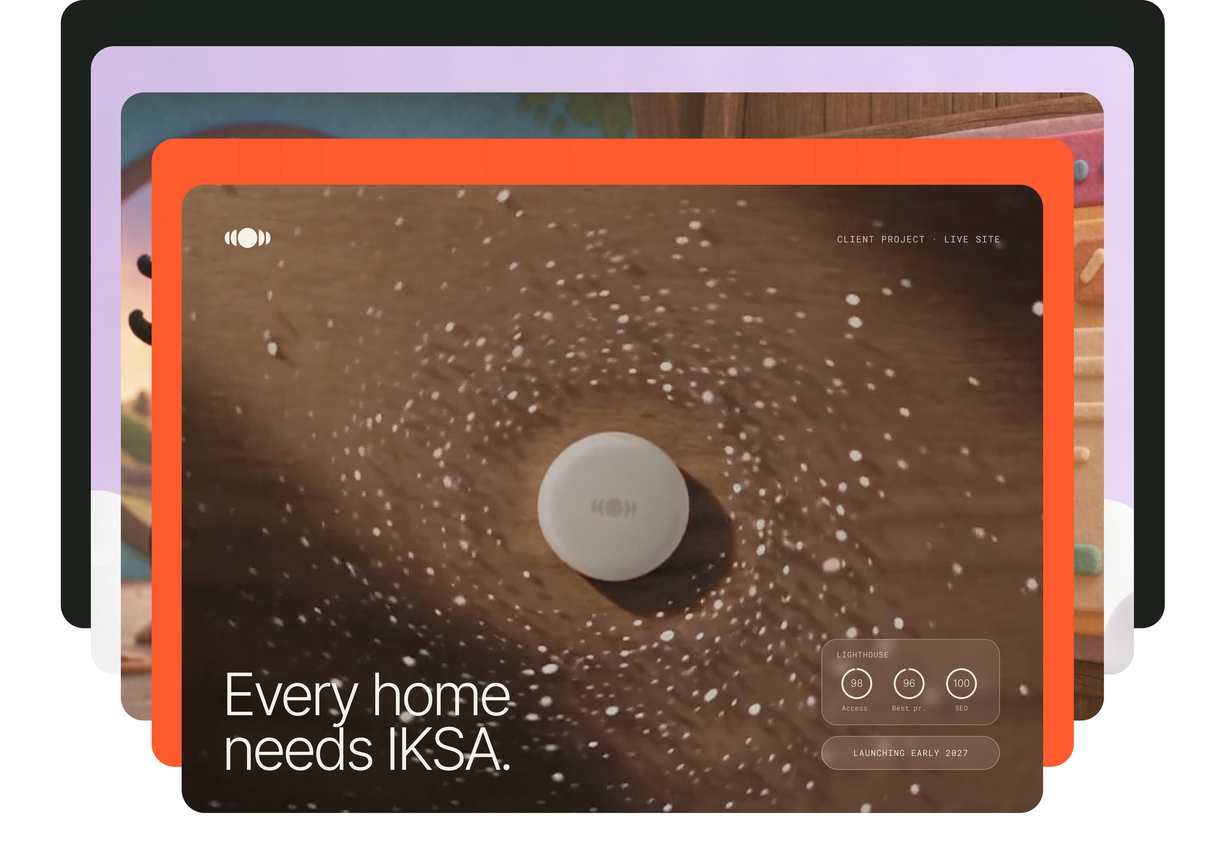
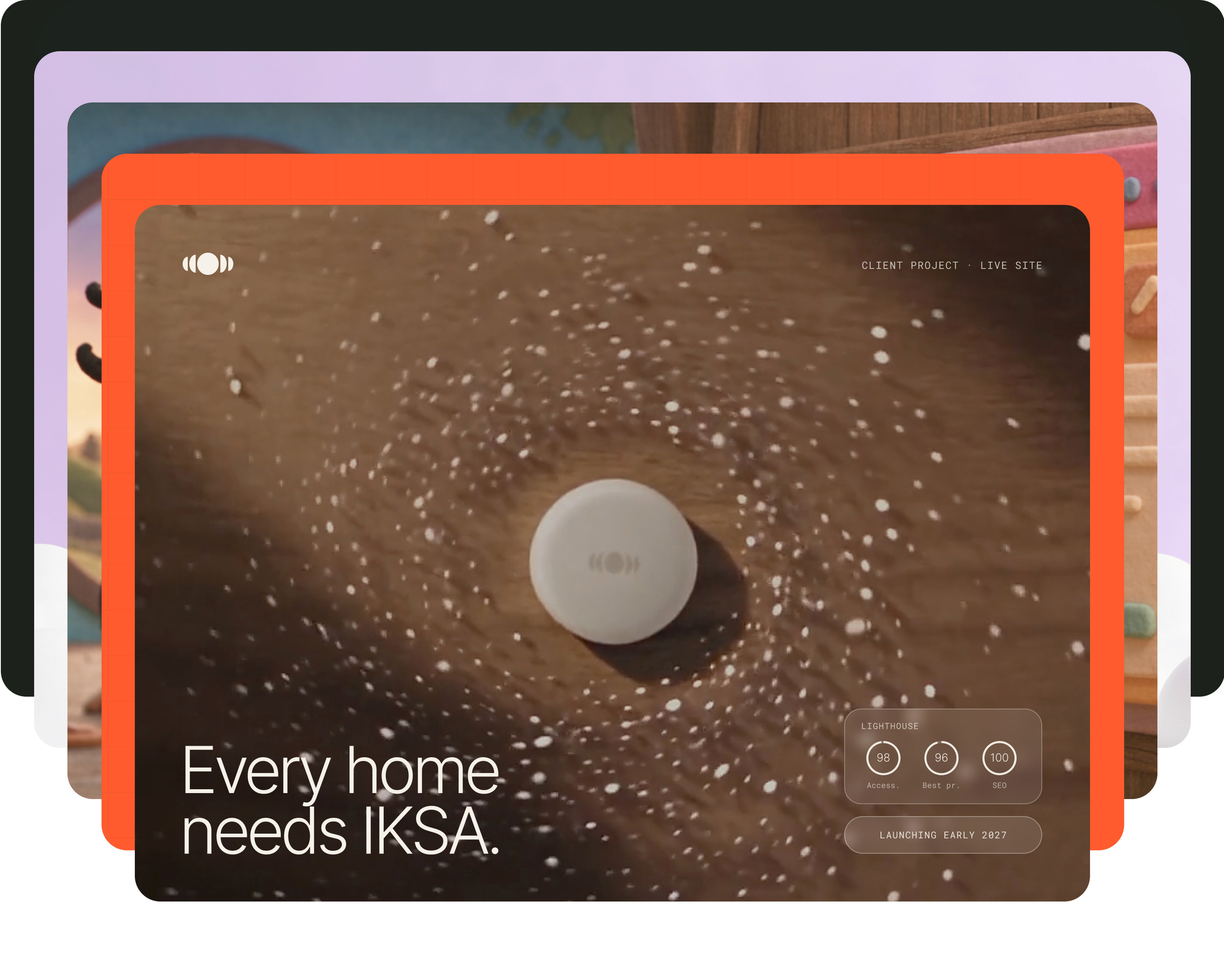
Featured card max width, sound control in nav, image edge trim, next-project hover colours
Claude-Session: https://claude.ai/code/session_01LdqoC1SF6YCFJvmDK3wVzD

diff --git a/squarespace/pages/01-home.html b/squarespace/pages/01-home.html
@@ -19,7 +19,7 @@
 </section>
 <section id="s-25-566" class="sec" aria-label="Intro"><div class="f" style="display:flex;flex-direction:row;flex-wrap:wrap;padding:calc(128px*var(--k)) var(--gut) calc(64px*var(--k)) var(--gut);justify-content:space-between;align-items:flex-start;align-self:stretch"><div class="f" style="display:flex;flex-direction:column;gap:16px;align-items:flex-start;flex:0 1 380px;min-width:min(100%,220px);max-width:100%"><p class="t" style="font-weight:700;font-family:var(--sans);font-size:11px;line-height:1.45;letter-spacing:0.08em;color:var(--text);text-transform:uppercase;max-width:100%">PRODUCT DESIGNER · 5 YEARS IN DESIGN</p><h2 class="t" style="font-weight:300;font-family:var(--sans);font-size:clamp(23px,1.89vw,30px);line-height:1.05;letter-spacing:-0.03em;color:var(--text);width:380px;max-width:100%">Designing and building for the web, from the first user interview to the last line of CSS.</h2><div class="sp" aria-hidden="true" style="flex:0 0 auto;height:calc(40px*var(--k))"></div><a class="pill" href="/about">FIND OUT MORE</a></div><p class="t" style="font-weight:300;font-family:var(--sans);font-size:16px;line-height:1.5;color:var(--text);flex:0 1 360px;min-width:min(100%,240px);max-width:100%">Fluent in both Figma and front-end code, so designs arrive with their states, spacing and accessibility already worked out. Research, usability testing and a shared design system keep every decision grounded.</p></div></section>
 <section id="s-388-13758" class="sec" aria-label="Stats (sentence)"><div class="f" style="display:flex;flex-direction:column;gap:20px;padding:calc(40px*var(--k)) var(--gut) calc(140px*var(--k)) var(--gut);align-items:flex-start;background:var(--bg);align-self:stretch"><p class="t" style="font-weight:400;font-family:'Roboto Mono',ui-monospace,monospace;font-size:11px;line-height:1.45;letter-spacing:0.1em;color:var(--muted);max-width:100%">IN NUMBERS</p><div class="f" style="gap:24px 24px;align-self:stretch;display:grid;grid-template-columns:repeat(auto-fit,minmax(min(100%,300px),1fr))"><a class="f blk" href="/equerry-co" style="display:flex;flex-direction:column;gap:20px;padding:calc(48px*var(--k)) calc(48px*var(--kx)) calc(48px*var(--k)) calc(48px*var(--kx));align-items:flex-start;background:var(--surface);border-radius:30px;align-self:stretch;flex:461 1 0px;min-width:min(100%,300px);height:100%"><p class="t" style="font-weight:500;font-family:'Geist Mono',ui-monospace,monospace;font-size:12px;line-height:1.45;letter-spacing:0.06em;color:var(--muted);max-width:100%">EQUERRY CO  ·  DESIGN SYSTEM</p><h2 class="t" style="font-weight:400;font-style:italic;font-family:var(--serif);font-size:clamp(59px,13.84vw,220px);line-height:1;letter-spacing:-0.02em;color:var(--accent);overflow-wrap:normal;max-width:100%"><em>30%</em></h2><h3 class="t" style="font-weight:300;font-family:var(--sans);font-size:clamp(20px,1.64vw,26px);line-height:1.3;letter-spacing:-0.01em;color:var(--text);align-self:stretch">Faster from approved design to live site, with the design system I built.</h3><p class="t" style="font-weight:400;font-family:var(--sans);font-size:15px;line-height:1.45;color:var(--accent);max-width:100%">Equerry Co case study  →</p></a><a class="f blk" href="/iksa" style="display:flex;flex-direction:column;gap:20px;padding:calc(48px*var(--k)) calc(48px*var(--kx)) calc(48px*var(--k)) calc(48px*var(--kx));align-items:flex-start;background:var(--surface);border-radius:30px;align-self:stretch;flex:461 1 0px;min-width:min(100%,300px);height:100%"><p class="t" style="font-weight:500;font-family:'Geist Mono',ui-monospace,monospace;font-size:12px;line-height:1.45;letter-spacing:0.06em;color:var(--muted);max-width:100%">IKSA  ·  CLIENT PROJECT</p><h2 class="t" style="font-weight:400;font-style:italic;font-family:var(--serif);font-size:clamp(59px,13.84vw,220px);line-height:1;letter-spacing:-0.02em;color:var(--accent);overflow-wrap:normal;max-width:100%"><em>98</em></h2><h3 class="t" style="font-weight:300;font-family:var(--sans);font-size:clamp(20px,1.64vw,26px);line-height:1.3;letter-spacing:-0.01em;color:var(--text);align-self:stretch">Lighthouse accessibility score on IKSA’s live site, which I designed and built.</h3><p class="t" style="font-weight:400;font-family:var(--sans);font-size:15px;line-height:1.45;color:var(--accent);max-width:100%">IKSA case study  →</p></a><a class="f blk" href="/about" style="display:flex;flex-direction:column;gap:20px;padding:calc(48px*var(--k)) calc(48px*var(--kx)) calc(48px*var(--k)) calc(48px*var(--kx));align-items:flex-start;background:var(--surface);border-radius:30px;align-self:stretch;flex:461 1 0px;min-width:min(100%,300px);height:100%"><p class="t" style="font-weight:500;font-family:'Geist Mono',ui-monospace,monospace;font-size:12px;line-height:1.45;letter-spacing:0.06em;color:var(--muted);max-width:100%">FREELANCE  ·  CLIENT WORK</p><h2 class="t" style="font-weight:400;font-style:italic;font-family:var(--serif);font-size:clamp(59px,13.84vw,220px);line-height:1;letter-spacing:-0.02em;color:var(--accent);overflow-wrap:normal;max-width:100%"><em>5</em></h2><h3 class="t" style="font-weight:300;font-family:var(--sans);font-size:clamp(20px,1.64vw,26px);line-height:1.3;letter-spacing:-0.01em;color:var(--text);align-self:stretch">Client projects I designed end to end as a freelancer.</h3><div class="sp" aria-hidden="true" style="flex:0 0 auto;height:calc(34px*var(--k))"></div><p class="t" style="font-weight:400;font-family:var(--sans);font-size:15px;line-height:1.45;color:var(--accent);max-width:100%">My experience  →</p></a></div></div></section>
-<section id="s-25-590" class="sec" aria-label="Featured: IKSA"><figure class="fig" style="width:100%;aspect-ratio:1590/1121"><img class="im only-dark" src="https://cdn.jsdelivr.net/gh/PDodia23/portfolio@main/images/home-01.jpg" alt="Pooja Dodia: Featured: IKSA" width="1590" height="1121" loading="lazy" decoding="async"><img class="im only-light" src="https://cdn.jsdelivr.net/gh/PDodia23/portfolio@main/images/home-01-light.jpg" alt="Pooja Dodia: Featured: IKSA" width="1590" height="1121" loading="lazy" decoding="async"></figure></section>
+<section id="s-25-590" class="sec" aria-label="Featured: IKSA"><div class="f" style="display:flex;flex-direction:column;padding:0px var(--gut) 0px var(--gut);align-items:flex-start;align-self:stretch"><figure class="fig" style="width:1434px;max-width:100%;aspect-ratio:1434/1121"><img class="im only-dark" src="https://cdn.jsdelivr.net/gh/PDodia23/portfolio@main/images/home-01.jpg" alt="Pooja Dodia: Featured: IKSA" width="1434" height="1121" loading="lazy" decoding="async"><img class="im only-light" src="https://cdn.jsdelivr.net/gh/PDodia23/portfolio@main/images/home-01-light.jpg" alt="Pooja Dodia: Featured: IKSA" width="1434" height="1121" loading="lazy" decoding="async"></figure></div></section>
 <section id="s-25-731" class="sec" aria-label="Case studies"><div class="f" style="display:flex;flex-direction:row;flex-wrap:wrap;padding:calc(160px*var(--k)) var(--gut) calc(160px*var(--k)) var(--gut);align-items:flex-start;align-self:stretch"><div class="f" style="display:flex;flex-direction:column;gap:16px;align-items:flex-start;flex:0 1 580px;min-width:min(100%,240px);max-width:100%"><p class="t" style="font-weight:700;font-family:var(--sans);font-size:11px;line-height:1.45;letter-spacing:0.08em;color:var(--text);text-transform:uppercase;max-width:100%">CASE STUDIES</p><h2 class="t" style="font-weight:300;font-family:var(--sans);font-size:clamp(23px,1.89vw,30px);line-height:1.05;letter-spacing:-0.03em;color:var(--text);width:380px;max-width:100%">Explore my<br><em>work.</em></h2></div><div class="f" style="display:flex;flex-direction:column;align-items:flex-start;flex:850 1 0px;min-width:min(100%,300px)"><a class="f blk caserow caserow--iksa" href="/iksa" style="display:flex;flex-direction:column;gap:24px;padding:calc(32px*var(--k)) 0px calc(48px*var(--k)) 0px;align-items:flex-start;align-self:stretch"><p class="t" style="font-weight:700;font-family:var(--sans);font-size:11px;line-height:1.45;letter-spacing:0.08em;color:var(--muted);text-transform:uppercase;max-width:100%">LIVE SITE  ·  BRAND &amp; LANDING PAGE</p><h2 class="t adapt" style="font-weight:300;font-family:var(--sans);font-size:clamp(54px,12.58vw,200px);line-height:0.77;letter-spacing:-0.07em;--lc:#404040;color:#5d5d5d;overflow-wrap:normal;align-self:stretch">IKSA</h2><span class="caserow__pv" aria-hidden="true"><img src="https://cdn.jsdelivr.net/gh/PDodia23/portfolio@main/images/pv-iksa.jpg" alt="" width="806" height="488" loading="lazy" decoding="async"></span></a><a class="f blk caserow caserow--equerry-co" href="/equerry-co" style="display:flex;flex-direction:column;gap:24px;padding:calc(32px*var(--k)) 0px calc(48px*var(--k)) 0px;align-items:flex-start;align-self:stretch"><p class="t" style="font-weight:700;font-family:var(--sans);font-size:11px;line-height:1.45;letter-spacing:0.08em;color:var(--muted);text-transform:uppercase;max-width:100%">SHIPPED WORK  ·  DESIGN SYSTEM</p><h2 class="t adapt" style="font-weight:300;font-family:var(--sans);font-size:clamp(54px,12.58vw,200px);line-height:0.77;letter-spacing:-0.07em;--lc:#404040;color:#5d5d5d;overflow-wrap:normal;align-self:stretch">Equerry Co</h2><span class="caserow__pv" aria-hidden="true"><img src="https://cdn.jsdelivr.net/gh/PDodia23/portfolio@main/images/pv-equerry-co.jpg" alt="" width="806" height="488" loading="lazy" decoding="async"></span></a><a class="f blk caserow caserow--portfolio-rebuild" href="/portfolio-rebuild" style="display:flex;flex-direction:column;gap:24px;padding:calc(32px*var(--k)) 0px calc(48px*var(--k)) 0px;align-items:flex-start;align-self:stretch"><p class="t" style="font-weight:700;font-family:var(--sans);font-size:11px;line-height:1.45;letter-spacing:0.08em;color:var(--muted);text-transform:uppercase;max-width:100%">REAL AUDIT  ·  ACCESSIBILITY, WCAG 2.2 AA</p><h2 class="t adapt" style="font-weight:300;font-family:var(--sans);font-size:clamp(54px,12.58vw,200px);line-height:0.77;letter-spacing:-0.07em;--lc:#404040;color:#5d5d5d;overflow-wrap:normal;align-self:stretch">Portfolio rebuild</h2><span class="caserow__pv" aria-hidden="true"><img src="https://cdn.jsdelivr.net/gh/PDodia23/portfolio@main/images/pv-portfolio-rebuild.jpg" alt="" width="806" height="488" loading="lazy" decoding="async"></span></a><a class="f blk caserow caserow--butter-and-bloom" href="/butter-and-bloom" style="display:flex;flex-direction:column;gap:24px;padding:calc(32px*var(--k)) 0px calc(48px*var(--k)) 0px;align-items:flex-start;align-self:stretch"><p class="t" style="font-weight:700;font-family:var(--sans);font-size:11px;line-height:1.45;letter-spacing:0.08em;color:var(--muted);text-transform:uppercase;max-width:100%">CONCEPT  ·  MOBILE APP, 5-PERSON USABILITY TEST</p><h2 class="t adapt" style="font-weight:300;font-family:var(--sans);font-size:clamp(54px,12.58vw,200px);line-height:0.77;letter-spacing:-0.07em;--lc:#404040;color:#5d5d5d;overflow-wrap:normal;align-self:stretch">Butter &amp; Bloom</h2><span class="caserow__pv" aria-hidden="true"><img src="https://cdn.jsdelivr.net/gh/PDodia23/portfolio@main/images/pv-butter-and-bloom.jpg" alt="" width="806" height="488" loading="lazy" decoding="async"></span></a><a class="f blk caserow caserow--dew" href="/dew" style="display:flex;flex-direction:column;gap:24px;padding:calc(32px*var(--k)) 0px calc(48px*var(--k)) 0px;align-items:flex-start;align-self:stretch"><p class="t" style="font-weight:700;font-family:var(--sans);font-size:11px;line-height:1.45;letter-spacing:0.08em;color:var(--muted);text-transform:uppercase;max-width:100%">CONCEPT  ·  EXPERIMENTATION &amp; SUBSCRIPTION UX</p><h2 class="t adapt" style="font-weight:300;font-family:var(--sans);font-size:clamp(54px,12.58vw,200px);line-height:0.77;letter-spacing:-0.07em;--lc:#404040;color:#5d5d5d;overflow-wrap:normal;align-self:stretch">Dew</h2><span class="caserow__pv" aria-hidden="true"><img src="https://cdn.jsdelivr.net/gh/PDodia23/portfolio@main/images/pv-dew.jpg" alt="" width="806" height="488" loading="lazy" decoding="async"></span></a><a class="f blk caserow caserow--margins" href="/margins" style="display:flex;flex-direction:column;gap:24px;padding:calc(32px*var(--k)) 0px calc(48px*var(--k)) 0px;align-items:flex-start;align-self:stretch"><p class="t" style="font-weight:700;font-family:var(--sans);font-size:11px;line-height:1.45;letter-spacing:0.08em;color:var(--muted);text-transform:uppercase;max-width:100%">CONCEPT  ·  SOCIAL READING APP</p><h2 class="t adapt" style="font-weight:300;font-family:var(--sans);font-size:clamp(54px,12.58vw,200px);line-height:0.77;letter-spacing:-0.07em;--lc:#404040;color:#5d5d5d;overflow-wrap:normal;align-self:stretch">Margins</h2><span class="caserow__pv" aria-hidden="true"><img src="https://cdn.jsdelivr.net/gh/PDodia23/portfolio@main/images/pv-margins.jpg" alt="" width="806" height="488" loading="lazy" decoding="async"></span></a><a class="f blk caserow caserow--concur" href="/concur" style="display:flex;flex-direction:column;gap:24px;padding:calc(32px*var(--k)) 0px calc(48px*var(--k)) 0px;align-items:flex-start;align-self:stretch"><p class="t" style="font-weight:700;font-family:var(--sans);font-size:11px;line-height:1.45;letter-spacing:0.08em;color:var(--muted);text-transform:uppercase;max-width:100%">CONCEPT  ·  B2B EXPENSES, WEB + iOS</p><h2 class="t adapt" style="font-weight:300;font-family:var(--sans);font-size:clamp(54px,12.58vw,200px);line-height:0.77;letter-spacing:-0.07em;--lc:#404040;color:#5d5d5d;overflow-wrap:normal;align-self:stretch">Concur</h2><span class="caserow__pv" aria-hidden="true"><img src="https://cdn.jsdelivr.net/gh/PDodia23/portfolio@main/images/pv-concur.jpg" alt="" width="806" height="488" loading="lazy" decoding="async"></span></a><div class="f" style="display:flex;flex-direction:row;flex-wrap:wrap;padding:24px 0px 0px 0px;align-items:flex-start;max-width:100%"><a class="pill" href="/work">VIEW ALL CASE STUDIES</a></div></div></div></section>
 <section id="s-25-765" class="sec" aria-label="Proof = pudding"><div class="f" style="display:flex;flex-direction:column;gap:16px;padding:0px var(--gut) calc(160px*var(--k)) var(--gut);align-items:flex-start;align-self:stretch"><p class="t" style="font-weight:700;font-family:var(--sans);font-size:11px;line-height:1.45;letter-spacing:0.08em;color:var(--text);text-transform:uppercase;max-width:100%">PROOF = PUDDING</p><h2 class="t" style="font-weight:300;font-family:var(--sans);font-size:clamp(23px,1.89vw,30px);line-height:1.05;letter-spacing:-0.03em;color:var(--text);width:295px;max-width:100%">Results I can show, not just pixels.</h2><div class="f" style="display:flex;flex-direction:row;flex-wrap:wrap;gap:calc(40px*var(--k)) calc(40px*var(--k));padding:calc(64px*var(--k)) 0px 0px 0px;align-items:flex-start;align-self:stretch"><div class="f" style="display:flex;flex-direction:column;gap:24px;align-items:flex-start;flex:450 1 0px;min-width:min(100%,300px)"><h2 class="t" style="font-weight:300;font-family:var(--sans);font-size:clamp(34px,5.03vw,80px);line-height:0.7;letter-spacing:-0.05em;color:var(--text);overflow-wrap:normal;max-width:100%">100</h2><p class="t" style="font-weight:300;font-family:var(--sans);font-size:18px;line-height:1.45;color:var(--text);align-self:stretch">Lighthouse accessibility score on my rebuilt portfolio, up from 94.</p></div><div class="f" style="display:flex;flex-direction:column;gap:24px;align-items:flex-start;flex:450 1 0px;min-width:min(100%,300px)"><h2 class="t" style="font-weight:300;font-family:var(--sans);font-size:clamp(34px,5.03vw,80px);line-height:0.7;letter-spacing:-0.05em;color:var(--text);overflow-wrap:normal;max-width:100%">3</h2><p class="t" style="font-weight:300;font-family:var(--sans);font-size:18px;line-height:1.45;color:var(--text);align-self:stretch">Design changes from a 5-person usability test on Butter &amp; Bloom, starting with a written VEGAN tag.</p></div><div class="f" style="display:flex;flex-direction:column;gap:24px;align-items:flex-start;flex:450 1 0px;min-width:min(100%,300px)"><h2 class="t" style="font-weight:300;font-family:var(--sans);font-size:clamp(34px,5.03vw,80px);line-height:0.7;letter-spacing:-0.05em;color:var(--text);overflow-wrap:normal;max-width:100%">0</h2><p class="t" style="font-weight:300;font-family:var(--sans);font-size:18px;line-height:1.45;color:var(--text);align-self:stretch">Automated axe accessibility issues left on my rebuilt portfolio, down from 7.</p></div></div></div></section>
 <section id="s-25-781" class="sec" aria-label="About"><div class="f" style="display:flex;flex-direction:row;flex-wrap:wrap;gap:calc(40px*var(--k)) calc(120px*var(--k));padding:0px var(--gut) calc(160px*var(--k)) var(--gut);align-items:flex-start;align-self:stretch"><div class="f" style="display:flex;flex-direction:column;gap:16px;align-items:flex-start;flex:0 1 762px;min-width:min(100%,240px);max-width:100%"><p class="t" style="font-weight:700;font-family:var(--sans);font-size:11px;line-height:1.45;letter-spacing:0.08em;color:var(--text);text-transform:uppercase;max-width:100%">ABOUT</p><h2 class="t" style="font-weight:300;font-family:var(--sans);font-size:clamp(23px,1.89vw,30px);line-height:1.05;letter-spacing:-0.03em;color:var(--text);width:380px;max-width:100%">Driven by design,<br><em>grounded in code.</em></h2><p class="t" style="font-weight:300;font-family:var(--sans);font-size:16px;line-height:1.5;color:var(--text);width:330px;max-width:100%">I've loved design since I was a child, and learning front-end development means I think about how things get built as well as how they look. My work starts with user research and testing, runs through a shared design system, and ends with a handoff engineers can build from without guessing. Outside design I'm usually halfway through a novel (currently The Night She Disappeared by Lisa Jewell) or planning the next trip.</p><div class="sp" aria-hidden="true" style="flex:0 0 auto;height:calc(20px*var(--k))"></div><a class="pill" href="/about">MORE ABOUT ME</a></div><div class="f" style="display:flex;flex-direction:column;gap:16px;align-items:flex-start;flex:668 1 0px;min-width:min(100%,300px)"><p class="t" style="font-weight:700;font-family:var(--sans);font-size:11px;line-height:1.45;letter-spacing:0.08em;color:var(--text);text-transform:uppercase;max-width:100%">DESIGN TOOLS</p><div class="f" style="display:flex;flex-direction:row;flex-wrap:wrap;gap:10px 10px;padding:0px 0px 16px 0px;align-items:flex-start;align-self:stretch"><span class="chip" style="background:var(--chip);color:var(--text);border-color:transparent">Figma</span><span class="chip" style="background:var(--chip);color:var(--text);border-color:transparent">Prototyping</span><span class="chip" style="background:var(--chip);color:var(--text);border-color:transparent">AI tools</span><span class="chip" style="background:var(--chip);color:var(--text);border-color:transparent">Canva</span></div><p class="t" style="font-weight:700;font-family:var(--sans);font-size:11px;line-height:1.45;letter-spacing:0.08em;color:var(--text);text-transform:uppercase;max-width:100%">FRONT-END</p><div class="f" style="display:flex;flex-direction:row;flex-wrap:wrap;gap:10px 10px;padding:0px 0px 16px 0px;align-items:flex-start;align-self:stretch"><span class="chip" style="background:var(--chip);color:var(--text);border-color:transparent">HTML</span><span class="chip" style="background:var(--chip);color:var(--text);border-color:transparent">CSS</span><span class="chip" style="background:var(--chip);color:var(--text);border-color:transparent">JavaScript</span></div><p class="t" style="font-weight:700;font-family:var(--sans);font-size:11px;line-height:1.45;letter-spacing:0.08em;color:var(--text);text-transform:uppercase;max-width:100%">METHOD</p><div class="f" style="display:flex;flex-direction:row;flex-wrap:wrap;gap:10px 10px;align-items:flex-start;align-self:stretch"><span class="chip" style="background:var(--chip);color:var(--text);border-color:transparent">User research</span><span class="chip" style="background:var(--chip);color:var(--text);border-color:transparent">User interviews</span><span class="chip" style="background:var(--chip);color:var(--text);border-color:transparent">Journey mapping</span><span class="chip" style="background:var(--chip);color:var(--text);border-color:transparent">Wireframing</span><span class="chip" style="background:var(--chip);color:var(--text);border-color:transparent">User flows</span><span class="chip" style="background:var(--chip);color:var(--text);border-color:transparent">Usability testing</span><span class="chip" style="background:var(--chip);color:var(--text);border-color:transparent">Design systems</span><span class="chip" style="background:var(--chip);color:var(--text);border-color:transparent">Responsive design</span><span class="chip" style="background:var(--chip);color:var(--text);border-color:transparent">WCAG accessibility</span></div></div></div></section>

diff --git a/squarespace/1-code-injection-HEADER.html b/squarespace/1-code-injection-HEADER.html
@@ -38,14 +38,14 @@ html,body{background:var(--bg)}
 .pd-site .fig{display:block;overflow:hidden;min-width:0}
 @media (max-width:900px){.pd-site .fig[style*="border-radius:30px"],.pd-site a.blk[style*="border-radius:30px"]{border-radius:24px!important}}
 .pd-site .im{display:block;width:100%;height:auto}
-.pd-site .fig .im{height:100%;object-fit:cover}
+.pd-site .fig .im{height:100%;object-fit:cover;transform:scale(1.012)}
 .pd-site .only-light{display:none}
 html[data-theme="light"] .pd-site .adapt{color:var(--lc)!important}
 html[data-theme="light"] .pd-site .only-light{display:block}
 html[data-theme="light"] .pd-site .only-dark{display:none}
 .pd-site .blk{display:flex;color:inherit;transition:opacity .2s,transform .2s}
 .pd-site a.blk:hover{opacity:.92}
-.pd-site a.blk:hover .fig .im{transform:scale(1.015)}
+.pd-site a.blk:hover .fig .im{transform:scale(1.03)}
 .pd-site .fig .im{transition:transform .5s cubic-bezier(.2,.7,.2,1)}
 .pd-site :focus-visible{outline:2px solid var(--accent);outline-offset:3px;border-radius:6px}
 .pd-vh{position:absolute!important;width:1px;height:1px;overflow:hidden;clip:rect(0 0 0 0);white-space:nowrap}
@@ -66,6 +66,11 @@ html[data-theme="light"] .pd-site .pill--primary:hover{background:#333;border-co
 /* nav */
 .pd-nav{position:relative;z-index:20;display:flex;align-items:center;justify-content:space-between;gap:24px;padding:40px var(--gut) 40px max(40px,calc(50vw - 755px));color:var(--text)}
 .pd-nav--over{position:absolute;top:0;left:0;right:0;color:#fff}
+.pd-nav .pd-sound{position:static;width:auto;height:auto;min-height:0;padding:14px 4px;background:none;box-shadow:none;-webkit-backdrop-filter:none;backdrop-filter:none;border-radius:0;color:inherit;transform:none}
+.pd-nav .pd-sound:hover{background:none;transform:none;opacity:.7}
+.pd-nav .pd-sound svg{width:15px;height:15px}
+.pd-cvl{display:flex;align-items:center;gap:20px}
+@media (max-width:900px){.pd-nav>.pd-sound{margin-left:auto;margin-right:8px;padding:14px 8px}.pd-nav .pd-sound svg{width:18px;height:18px}}
 .pd-logo{display:inline-flex;flex:0 0 auto}
 .pd-logo svg{height:40px;width:auto}
 .pd-links ul{display:flex;gap:14px;align-items:center}
@@ -169,6 +174,15 @@ html[data-theme="light"] .pd-site .pill--primary:hover{background:#333;border-co
 .pd-site .caserow--margins:hover h2.t,.pd-site .caserow--margins:focus-visible h2.t{color:#e0896a!important}
 .pd-site .caserow--concur:hover h2.t,.pd-site .caserow--concur:focus-visible h2.t{color:#d4f26a!important}
 html[data-theme="light"] .pd-site .caserow:hover h2.t,html[data-theme="light"] .pd-site .caserow:focus-visible h2.t{color:var(--text)!important}
+.pd-site section[aria-label="Next project"] h2.t{transition:color .45s cubic-bezier(.22,1,.36,1)}
+.pd-site section[aria-label="Next project"] a[href$="/iksa"]:hover h2.t,.pd-site section[aria-label="Next project"] a[href$="iksa.html"]:hover h2.t{color:#5e9497!important}
+.pd-site section[aria-label="Next project"] a[href$="/equerry-co"]:hover h2.t,.pd-site section[aria-label="Next project"] a[href$="equerry-co.html"]:hover h2.t{color:#ff6a3d!important}
+.pd-site section[aria-label="Next project"] a[href$="/portfolio-rebuild"]:hover h2.t,.pd-site section[aria-label="Next project"] a[href$="portfolio-rebuild.html"]:hover h2.t{color:#f4a6c6!important}
+.pd-site section[aria-label="Next project"] a[href$="/butter-and-bloom"]:hover h2.t,.pd-site section[aria-label="Next project"] a[href$="butter-and-bloom.html"]:hover h2.t{color:#d9c4e8!important}
+.pd-site section[aria-label="Next project"] a[href$="/dew"]:hover h2.t,.pd-site section[aria-label="Next project"] a[href$="dew.html"]:hover h2.t{color:#a9c29b!important}
+.pd-site section[aria-label="Next project"] a[href$="/margins"]:hover h2.t,.pd-site section[aria-label="Next project"] a[href$="margins.html"]:hover h2.t{color:#e0896a!important}
+.pd-site section[aria-label="Next project"] a[href$="/concur"]:hover h2.t,.pd-site section[aria-label="Next project"] a[href$="concur.html"]:hover h2.t{color:#d4f26a!important}
+html[data-theme="light"] .pd-site section[aria-label="Next project"] a:hover h2.t{color:var(--text)!important}
 .pd-site .caserow{position:relative}
 .pd-site .f[style*="display:grid"]>.f[style*="flex-direction:column"]>:last-child:not(:first-child){margin-top:auto}
 .pd-site .caserow__pv{position:absolute;right:calc(100% + 20.8%);top:50%;width:47.4%;aspect-ratio:403/244;border-radius:4.3%/7.1%;overflow:hidden;background:#000;opacity:0;transform:translateY(calc(-50% + var(--pvy,0px) + 12px)) scale(.97);transition:opacity .55s cubic-bezier(.22,1,.36,1),transform .7s cubic-bezier(.22,1,.36,1);pointer-events:none;display:none;will-change:opacity,transform}

diff --git a/squarespace/2-code-injection-FOOTER.html b/squarespace/2-code-injection-FOOTER.html
@@ -30,8 +30,14 @@ d.querySelectorAll('.pd-site[data-filters]').forEach(function(site){
 /* case row previews: never cover the section heading */
 function pvFit(){d.querySelectorAll('.pd-site .caserow__pv').forEach(function(pv){var row=pv.parentNode,sec=row.closest('section');var h=sec&&[].slice.call(sec.querySelectorAll('h1,h2')).filter(function(x){return !x.closest('.caserow');})[0];pv.style.setProperty('--pvy','0px');if(!h||getComputedStyle(pv).display==='none')return;var hb=h.getBoundingClientRect().bottom+32,r=row.getBoundingClientRect(),top=r.top+r.height/2-pv.offsetHeight/2;pv.style.setProperty('--pvy',Math.max(0,hb-top)+'px');});}
 pvFit();addEventListener('resize',pvFit);addEventListener('load',pvFit);
+/* sound control lives in the nav, beside CV (desktop) or the menu button (mobile) */
+var sbtn=d.querySelector('.pd-hero .pd-sound');
+if(sbtn){var navh=d.querySelector('.pd-nav'),cvl=navh&&navh.querySelector('.pd-cvl'),mnu=navh&&navh.querySelector('.pd-menu'),mq=matchMedia('(min-width:901px)');
+ var li=d.createElement('li');li.className='pd-sndli';
+ function placeS(){if(!navh)return;if(mq.matches&&cvl){li.appendChild(sbtn);cvl.insertBefore(li,cvl.firstChild);}else if(mnu){navh.insertBefore(sbtn,mnu);if(li.parentNode)li.parentNode.removeChild(li);}}
+ placeS();mq.addEventListener?mq.addEventListener('change',placeS):mq.addListener(placeS);}
 /* hero video + sound (video file set in data-src once uploaded) */
-var hero=d.querySelector('.pd-hero'),v=hero&&hero.querySelector('video'),sb=hero&&hero.querySelector('.pd-sound');
+var hero=d.querySelector('.pd-hero'),v=hero&&hero.querySelector('video'),sb=d.querySelector('.pd-sound');
 var src=window.PD_HERO_VIDEO||'';
 if(v&&src){
  v.src=src;v.play().then(function(){hero.classList.add('is-playing');if(sb)sb.hidden=false;}).catch(function(){});
